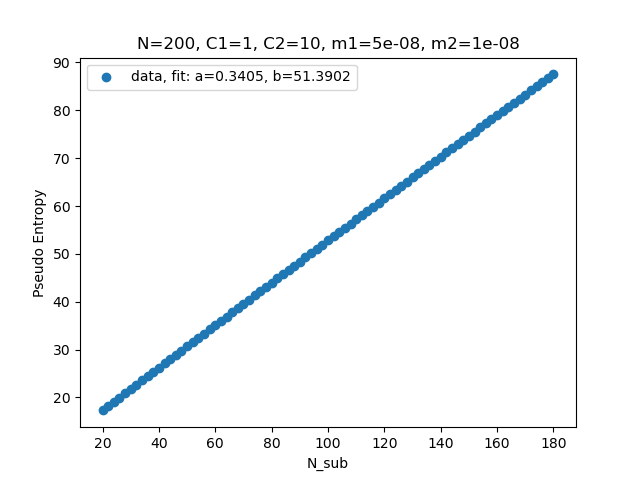
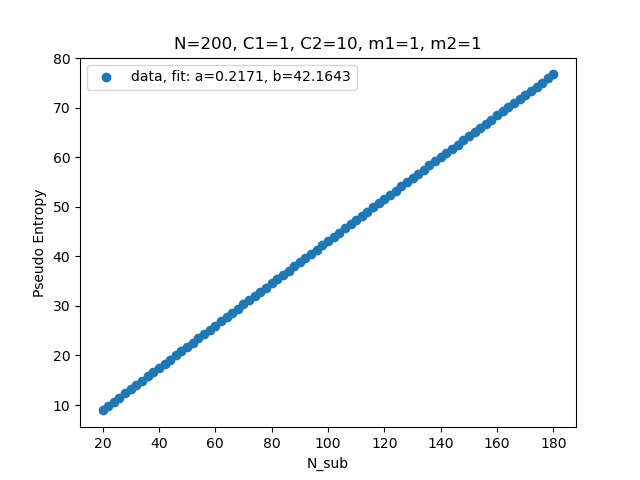
PE_20230214

diff --git a/Final_project/Pseudo_Entropy/PE_3.py b/Final_project/Pseudo_Entropy/PE_3.py
@@ -1,8 +1,9 @@
 import numpy as np
+import pandas as pd
 import matplotlib.pyplot as plt
 from scipy import linalg
 from scipy.optimize import curve_fit
-
+import time
 
 #m1 = 1.0 * 10**(-3)
 #m2 = 2.5 * 10**(-4)
@@ -117,11 +118,11 @@ def matrix(N, N_sub, C1, C2, m1, m2):
 
     return mode_entropy
 
-matrix(200,40, 1, 10, 5.0*10**(-8), 1.0*10**(-8)) 
+#matrix(200,40, 1, 10, 5.0*10**(-8), 1.0*10**(-8)) 
 
-def fit_func(n_sub, a, b):
-    return a * np.log((200/np.pi) * np.sin( np.pi * n_sub/200)) + b
-
+def fit_func(n_sub, a, b, c):
+    #return a * np.log((200/np.pi) * np.sin( np.pi * n_sub/200)) + b
+    return a * 4 * np.pi * n_sub**2 + b * np.log(n_sub**2) + c 
 
 def plot(N, n_ini, n_fin, step, C1, C2, m1, m2): 
     
@@ -130,6 +131,8 @@ def plot(N, n_ini, n_fin, step, C1, C2, m1, m2):
 
     ps_array = np.array([])
     n_array  = np.array([])
+
+    start_time = time.time()
 
     for i in range(0, d+1):
 
@@ -141,19 +144,30 @@ def plot(N, n_ini, n_fin, step, C1, C2, m1, m2):
     popt, pcov = curve_fit(fit_func, n_array, ps_array)
     print(popt)
 
-    plt.scatter(n_array, ps_array, label='data, fit: a=%6.4f, b=%6.4f' % tuple(popt))     
-    #plt.plot(R_list, fit_func(R_list, *popt), label='fit: a=%6.4f, b=%6.4f, c=%6.4f' % tuple(popt), color='r')
+    print('Time used: {} sec'.format(time.time()-start_time))
+
+    col1 = "n_sub"
+    col2 = "Pseudo_Entropy"
+    col3 = "a"
+    col4 = "b"
+    col5 = "c"
+    
+    arealaw = pd.DataFrame({col1:n_array, col2:ps_array, col3:popt[0], col4:popt[1], col5:popt[2]})
+    arealaw.to_excel('N200.xlsx', sheet_name='sheet1', index=False)
+
+    plt.scatter(4* np.pi * n_array**2 * 0.001, ps_array, label='data')     
+    plt.plot(4* np.pi * n_array**2 * 0.001, fit_func(n_array, *popt), label='fit: a=%6.4f, b=%6.4f, c=%6.4f' % tuple(popt), color='r')
 
     plt.title('N=' + str(N) + ', C1=' + str(C1) + ', C2=' + str(C2) + ', m1=' + str(m1) + ', m2=' + str(m2))
-    plt.xlabel('N_sub')
+    plt.xlabel('Area/1000')
     plt.ylabel('Pseudo Entropy')
     plt.legend()
-    plt.savefig('QFT_minimal_N'+str(N)+'_'+str(n_ini)+'n'+str(n_fin))
+    plt.savefig('QFT_minimal_N'+str(N)+'_m1_'+str(m1)+', m2_'+str(m2))
 
     plt.show()
 
 
-plot(200, 20, 180, 2, 1, 10, 5.0*10**(-8), 1.0*10**(-8))
+plot(200, 5, 195, 5, 1, 10, 1, 1)
 
 def S(m1, m2, l):
     

diff --git a/Final_project/Pseudo_Entropy/PE_2.py b/Final_project/Pseudo_Entropy/PE_2.py
@@ -148,12 +148,12 @@ def plot(N, n_ini, n_fin, step, C1, C2, m1, m2, xi, R):
     plt.xlabel('N_sub')
     plt.ylabel('Pseudo Entropy')
     plt.legend()
-    plt.savefig('QFT_conformal_N'+str(N)+'_'+str(n_ini)+'n'+str(n_fin))
+    #plt.savefig('QFT_conformal_N'+str(N)+'_'+str(n_ini)+'n'+str(n_fin))
 
     plt.show()
 
 
-plot(200, 20, 180, 2, 1, 10, 5.0*10**(-8), 1.0*10**(-8), 1/6, 100)
+plot(200, 20, 180, 2, 1, 10, 1, 1, 1/6, 100)
 
 def S(m1, m2, l):
     
